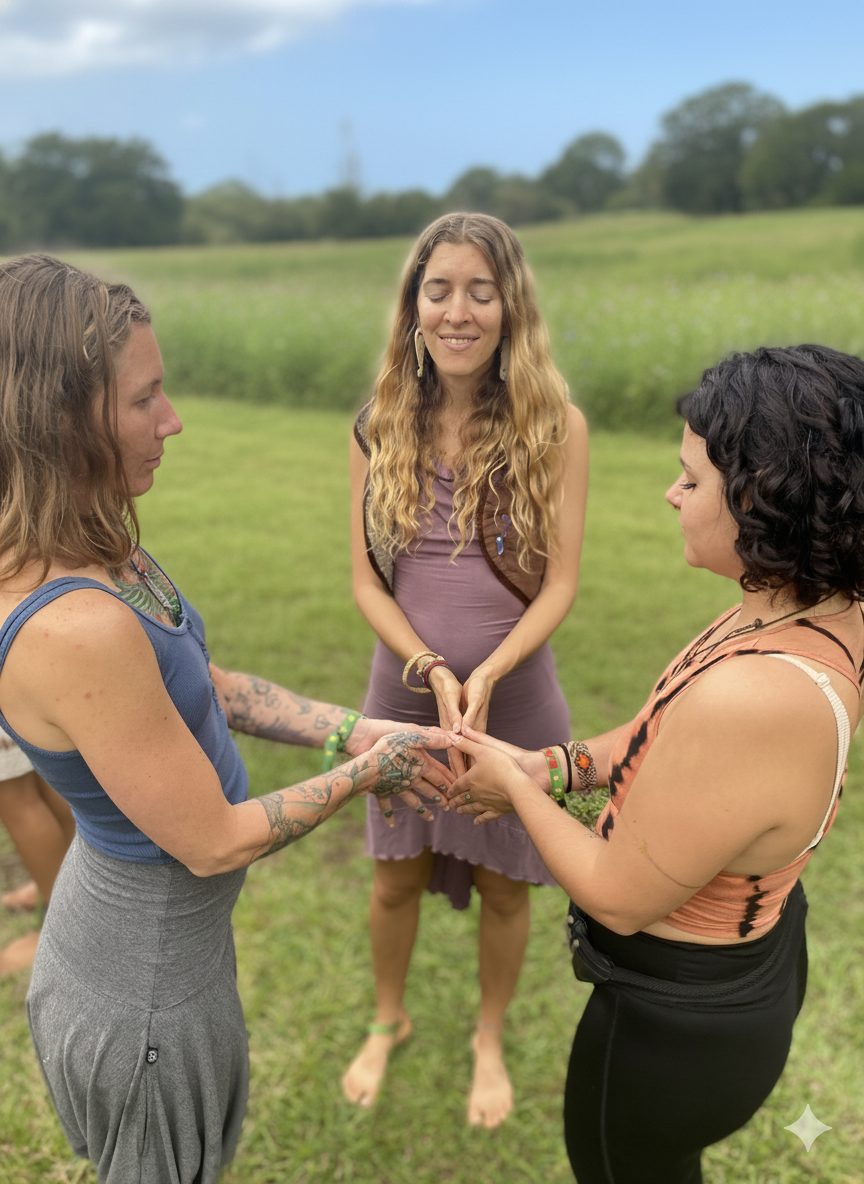
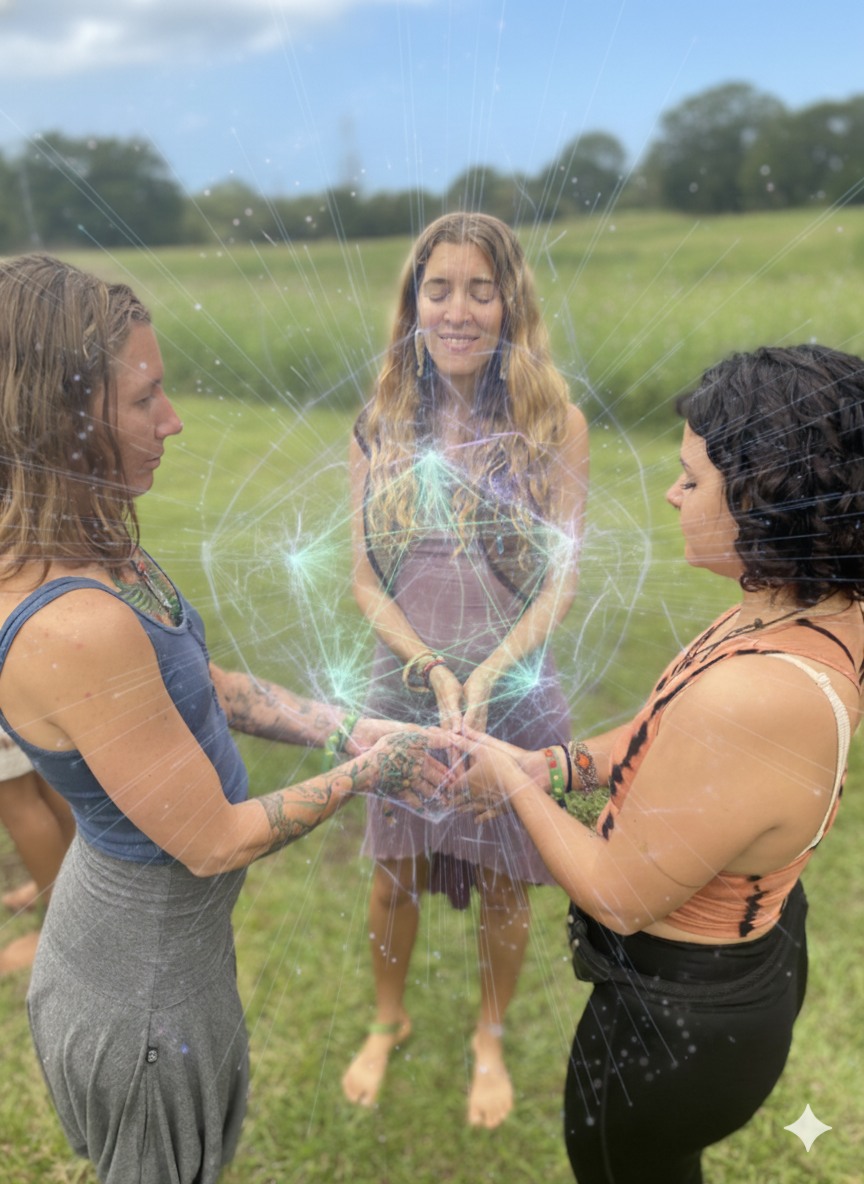
Update Humandalas description to emphasize Intentional Harmonic Transmission concept

diff --git a/components/features/UnifiedLanding.tsx b/components/features/UnifiedLanding.tsx
@@ -52,8 +52,8 @@ const METHODS_DATA: Record<string, { title: string; text: string; fullDescriptio
     },
     'humandalas': {
         title: 'Humandalas',
-        text: 'Sacred geometry through group movement.',
-        fullDescription: "Humandalas are intentional group activities that involve guided movements and shapes to create a shared energetic field. Rooted in sacred geometry and ancient healing practices, Humandalas are designed to foster connection, healing, and community. Participants physically form geometric patterns—circles, spirals, stars—becoming living mandalas that generate coherent energy fields. They are a transformative tool for deepening understanding of energy work and group facilitation."
+        text: 'Intentional Harmonic Transmission through sacred geometry.',
+        fullDescription: "Humandalas are the embodiment of Intentional Harmonic Transmission—the principle that intent can be encoded into a vibrational source, transmitted through energetic harmonics, and received by others as a regulatory or transformative influence.\n\nIn a Humandala, participants physically form sacred geometric patterns—circles, spirals, stars—becoming living mandalas. Each person holds focused intention while moving in synchronized harmony. The vibration of the group's collective intent is amplified by the geometric structure, creating a coherent field that extends beyond the individual participants.\n\nThis is vibrational healing at the collective scale: the group becomes both transmitter and receiver, broadcasting coherence into the surrounding field. Humandalas demonstrate that we are not isolated—our internal state ripples outward, and when we align together with shared intention, we become powerful instruments of transformation."
     }
 };
 

diff --git a/app/methods/page.tsx b/app/methods/page.tsx
@@ -79,8 +79,8 @@ const METHODS_LIST = [
   { 
     id: 'humandalas', 
     label: 'Humandalas', 
-    desc: 'Sacred geometry through group movement.', 
-    fullText: "Humandalas are intentional group activities that involve guided movements and shapes to create a shared energetic field. Rooted in sacred geometry and ancient healing practices, Humandalas are designed to foster connection, healing, and community. Participants physically form geometric patterns—circles, spirals, stars—becoming living mandalas that generate coherent energy fields. They are a transformative tool for anyone looking to deepen their understanding of energy work and group facilitation.",
+    desc: 'Intentional Harmonic Transmission through sacred geometry.', 
+    fullText: "Humandalas are the embodiment of Intentional Harmonic Transmission—the principle that intent can be encoded into a vibrational source, transmitted through energetic harmonics, and received by others as a regulatory or transformative influence.\n\nIn a Humandala, participants physically form sacred geometric patterns—circles, spirals, stars—becoming living mandalas. Each person holds focused intention while moving in synchronized harmony. The vibration of the group's collective intent is amplified by the geometric structure, creating a coherent field that extends beyond the individual participants.\n\nThis is vibrational healing at the collective scale: the group becomes both transmitter and receiver, broadcasting coherence into the surrounding field. Humandalas demonstrate that we are not isolated—our internal state ripples outward, and when we align together with shared intention, we become powerful instruments of transformation.",
     externalLink: 'https://humandalas.com'
   },
 ];
